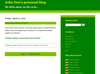
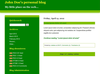
Stylesheetfixes

diff --git a/production/style.css b/production/style.css
@@ -92,8 +92,8 @@ nav a,.serendipity_sideNavigation,.serendipity_title{background:#7fbf00;}
 .content a,#main article a,.serendipity_section_trackbacks,.serendipity_commentsTitle{color:#008000;}
 #header-container,aside,.archive_graph{background:#008000 !important;}
 #title,#main aside,#footer-container footer,header h2,header h2 a{color:white !important;}
-header h1,header h1 a,header h1 a:hover,aside h3{color:#ffff00;}
-aside a,aside a:hover{color:#7fbf00;color:white;}
+header h1,header h1 a,header h1 a:hover,aside h3{color:#ffff00 !important;}
+aside a,aside a:hover{color:white;}
 #header-container,#footer-container,#main aside,.serendipity_section_trackbacks,.serendipity_entryFooter{border-color:#7fbf00;}
 .serendipity_comment_source{border-color:white;}
 .serendipity_comment{background:#ffff00;}

diff --git a/production/colorset_lime_and_melon_salad.css b/production/colorset_lime_and_melon_salad.css
@@ -2,8 +2,8 @@ nav a,.serendipity_sideNavigation,.serendipity_title{background:#cbe4bf;}
 .content a,#main article a,.serendipity_section_trackbacks,.serendipity_commentsTitle{color:#f07a81;}
 #header-container,aside,.archive_graph{background:#f07a81 !important;}
 #title,#main aside,#footer-container footer,header h2,header h2 a{color:white !important;}
-header h1,header h1 a,header h1 a:hover,aside h3{color:#dcfa7c;}
-aside a,aside a:hover{color:#cbe4bf;color:white;}
+header h1,header h1 a,header h1 a:hover,aside h3{color:#dcfa7c !important;}
+aside a,aside a:hover{color:white;}
 #header-container,#footer-container,#main aside,.serendipity_section_trackbacks,.serendipity_entryFooter{border-color:#cbe4bf;}
 .serendipity_comment_source{border-color:white;}
 .serendipity_comment{background:#dcfa7c;}

diff --git a/production/colorset_serendipity.css b/production/colorset_serendipity.css
@@ -2,8 +2,8 @@ nav a,.serendipity_sideNavigation,.serendipity_title{background:#91b7cc;}
 .content a,#main article a,.serendipity_section_trackbacks,.serendipity_commentsTitle{color:#25253d;}
 #header-container,aside,.archive_graph{background:#25253d !important;}
 #title,#main aside,#footer-container footer,header h2,header h2 a{color:white !important;}
-header h1,header h1 a,header h1 a:hover,aside h3{color:#febf02;}
-aside a,aside a:hover{color:#91b7cc;color:white;}
+header h1,header h1 a,header h1 a:hover,aside h3{color:#febf02 !important;}
+aside a,aside a:hover{color:white;}
 #header-container,#footer-container,#main aside,.serendipity_section_trackbacks,.serendipity_entryFooter{border-color:#91b7cc;}
 .serendipity_comment_source{border-color:white;}
 .serendipity_comment{background:#febf02;}

diff --git a/less/coloring.less b/less/coloring.less
@@ -17,11 +17,10 @@ nav a, .serendipity_sideNavigation, .serendipity_title {
 }
 
 header h1, header h1 a, header h1 a:hover, aside h3 {
-	color: @contrastColor;
+	color: @contrastColor !important;
 }
 
 aside a, aside a:hover {
-	color: @lightColor;
 	color: white;
 }
 
